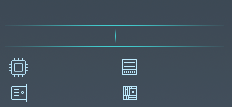
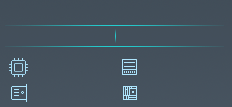
示例插件代码中增加调用DrawBitmap绘制png图像

Changed region(s): [[0.3319, 0.4206, 0.6336, 0.4486], [0.3319, 0.2243, 0.6336, 0.2523]]

diff --git a/PluginDemo/CustomDrawItem2.cpp b/PluginDemo/CustomDrawItem2.cpp
@@ -2,6 +2,59 @@
 #include "CustomDrawItem2.h"
 #include "DataManager.h"
 #include "PluginDemo.h"
+#include <gdiplus.h>
+#pragma comment(lib, "gdiplus.lib")
+
+static HBITMAP LoadPngResource(HINSTANCE hInstance, int resourceId)
+{
+    HBITMAP hBitmap = NULL;
+
+    HRSRC hResource = FindResource(hInstance, MAKEINTRESOURCE(resourceId), L"PNG");
+    if (!hResource) return NULL;
+
+    HGLOBAL hMemory = LoadResource(hInstance, hResource);
+    if (!hMemory) return NULL;
+
+    DWORD size = SizeofResource(hInstance, hResource);
+    void* pData = LockResource(hMemory);
+    if (!pData) return NULL;
+
+    // 创建 IStream
+    IStream* pStream = NULL;
+    // 使用 CreateStreamOnHGlobal 将内存块包装成流
+    HGLOBAL hGlobal = GlobalAlloc(GMEM_MOVEABLE, size);
+    if (hGlobal) {
+        void* pBuffer = GlobalLock(hGlobal);
+        if (pBuffer) {
+            memcpy(pBuffer, pData, size);
+            GlobalUnlock(hGlobal);
+            // 创建流，第二个参数 TRUE 表示流拥有内存，自动释放
+            if (CreateStreamOnHGlobal(hGlobal, TRUE, &pStream) == S_OK) {
+                // 用 GDI+ 的 Bitmap 从流加载
+                Gdiplus::Bitmap* pBitmap = new Gdiplus::Bitmap(pStream);
+                if (pBitmap->GetLastStatus() == Gdiplus::Ok) {
+                    Gdiplus::Color background(0, 0, 0, 0);
+                    pBitmap->GetHBITMAP(background, &hBitmap);
+                }
+                delete pBitmap;
+                pStream->Release();
+            }
+        }
+    }
+
+    // 释放资源
+    FreeResource(hMemory);
+
+    return hBitmap;
+}
+
+CCustomDrawItem2::CCustomDrawItem2()
+{
+    AFX_MANAGE_STATE(AfxGetStaticModuleState());
+    HMODULE hModule = reinterpret_cast<HMODULE>(&__ImageBase);
+    m_png = LoadPngResource(hModule, IDB_PNG1);
+
+}
 
 const wchar_t* CCustomDrawItem2::GetItemName() const
 {
@@ -35,7 +88,7 @@ bool CCustomDrawItem2::IsCustomDraw() const
 
 int CCustomDrawItem2::GetItemWidth() const
 {
-    return 60;
+    return 80;
 }
 
 bool CCustomDrawItem2::DrawItemEx(IPluginDrawer* pDrawer, int x, int y, int w, int h, bool dark_mode)
@@ -43,6 +96,7 @@ bool CCustomDrawItem2::DrawItemEx(IPluginDrawer* pDrawer, int x, int y, int w, i
     CRect rect(CPoint(x, y), CSize(w, h));
     COLORREF text_color = dark_mode ? RGB(255, 198, 105) : RGB(160, 99, 0);
     pDrawer->DrawRectOutLine(x, y, w, h, text_color);
+
     //绘制图标
     CRect icon_rect(rect);
     int icon_size = CPluginDemo::Instance().DPI(16);
@@ -53,9 +107,16 @@ bool CCustomDrawItem2::DrawItemEx(IPluginDrawer* pDrawer, int x, int y, int w, i
     HICON hIcon = CPluginDemo::Instance().GetIcon(IDI_ICON1);
     pDrawer->DrawIcon(hIcon, icon_rect.left, icon_rect.top, icon_rect.Width(), icon_rect.Height());
     //pDrawer->DrawRectOutLine(icon_rect.left, icon_rect.top, icon_rect.Width(), icon_rect.Height(), text_color);
+    
+    //绘制PNG格式图标
+    CRect png_rect(icon_rect);
+    png_rect.MoveToX(icon_rect.right + CPluginDemo::Instance().DPI(4));
+    //pDrawer->DrawRectOutLine(png_rect.left, png_rect.top, png_rect.Width(), png_rect.Height(), text_color);
+    pDrawer->DrawBitmap(m_png, png_rect.left, png_rect.top, png_rect.Width(), png_rect.Height());
+    
     //绘制文本
     CRect text_rect(rect);
-    text_rect.left = icon_rect.right + CPluginDemo::Instance().DPI(4);
+    text_rect.left = png_rect.right + CPluginDemo::Instance().DPI(4);
     //pDrawer->DrawRectOutLine(text_rect.left, text_rect.top, text_rect.Width(), text_rect.Height(), text_color);
     pDrawer->DrawWindowText(text_rect.left, text_rect.top, text_rect.Width(), text_rect.Height(), L"test", text_color);
     return true;

diff --git a/PluginDemo/CustomDrawItem2.h b/PluginDemo/CustomDrawItem2.h
@@ -3,6 +3,8 @@
 class CCustomDrawItem2 : public IPluginItem
 {
 public:
+    CCustomDrawItem2();
+
     // 通过 IPluginItem 继承
     virtual const wchar_t* GetItemName() const override;
     virtual const wchar_t* GetItemId() const override;
@@ -15,6 +17,6 @@ public:
     virtual int IsDoubleLineExclusive() const { return 1; }     //在任务栏中独占双行
 
 private:
-    HICON m_icon;
+    HBITMAP m_png{};
 };
 

diff --git a/PluginDemo/resource.h b/PluginDemo/resource.h
@@ -8,6 +8,7 @@
 #define IDS_PLUGIN_DESCRIPTION          104
 #define IDI_ICON1                       104
 #define IDS_TIME                        105
+#define IDB_PNG1                        105
 #define IDS_DATE                        106
 #define IDS_CUSTOM_DRAW_ITEM            107
 #define IDS_CUSTOM_DRAW_ITEM2           108
@@ -18,7 +19,7 @@
 // 
 #ifdef APSTUDIO_INVOKED
 #ifndef APSTUDIO_READONLY_SYMBOLS
-#define _APS_NEXT_RESOURCE_VALUE        105
+#define _APS_NEXT_RESOURCE_VALUE        106
 #define _APS_NEXT_COMMAND_VALUE         40001
 #define _APS_NEXT_CONTROL_VALUE         1003
 #define _APS_NEXT_SYMED_VALUE           101